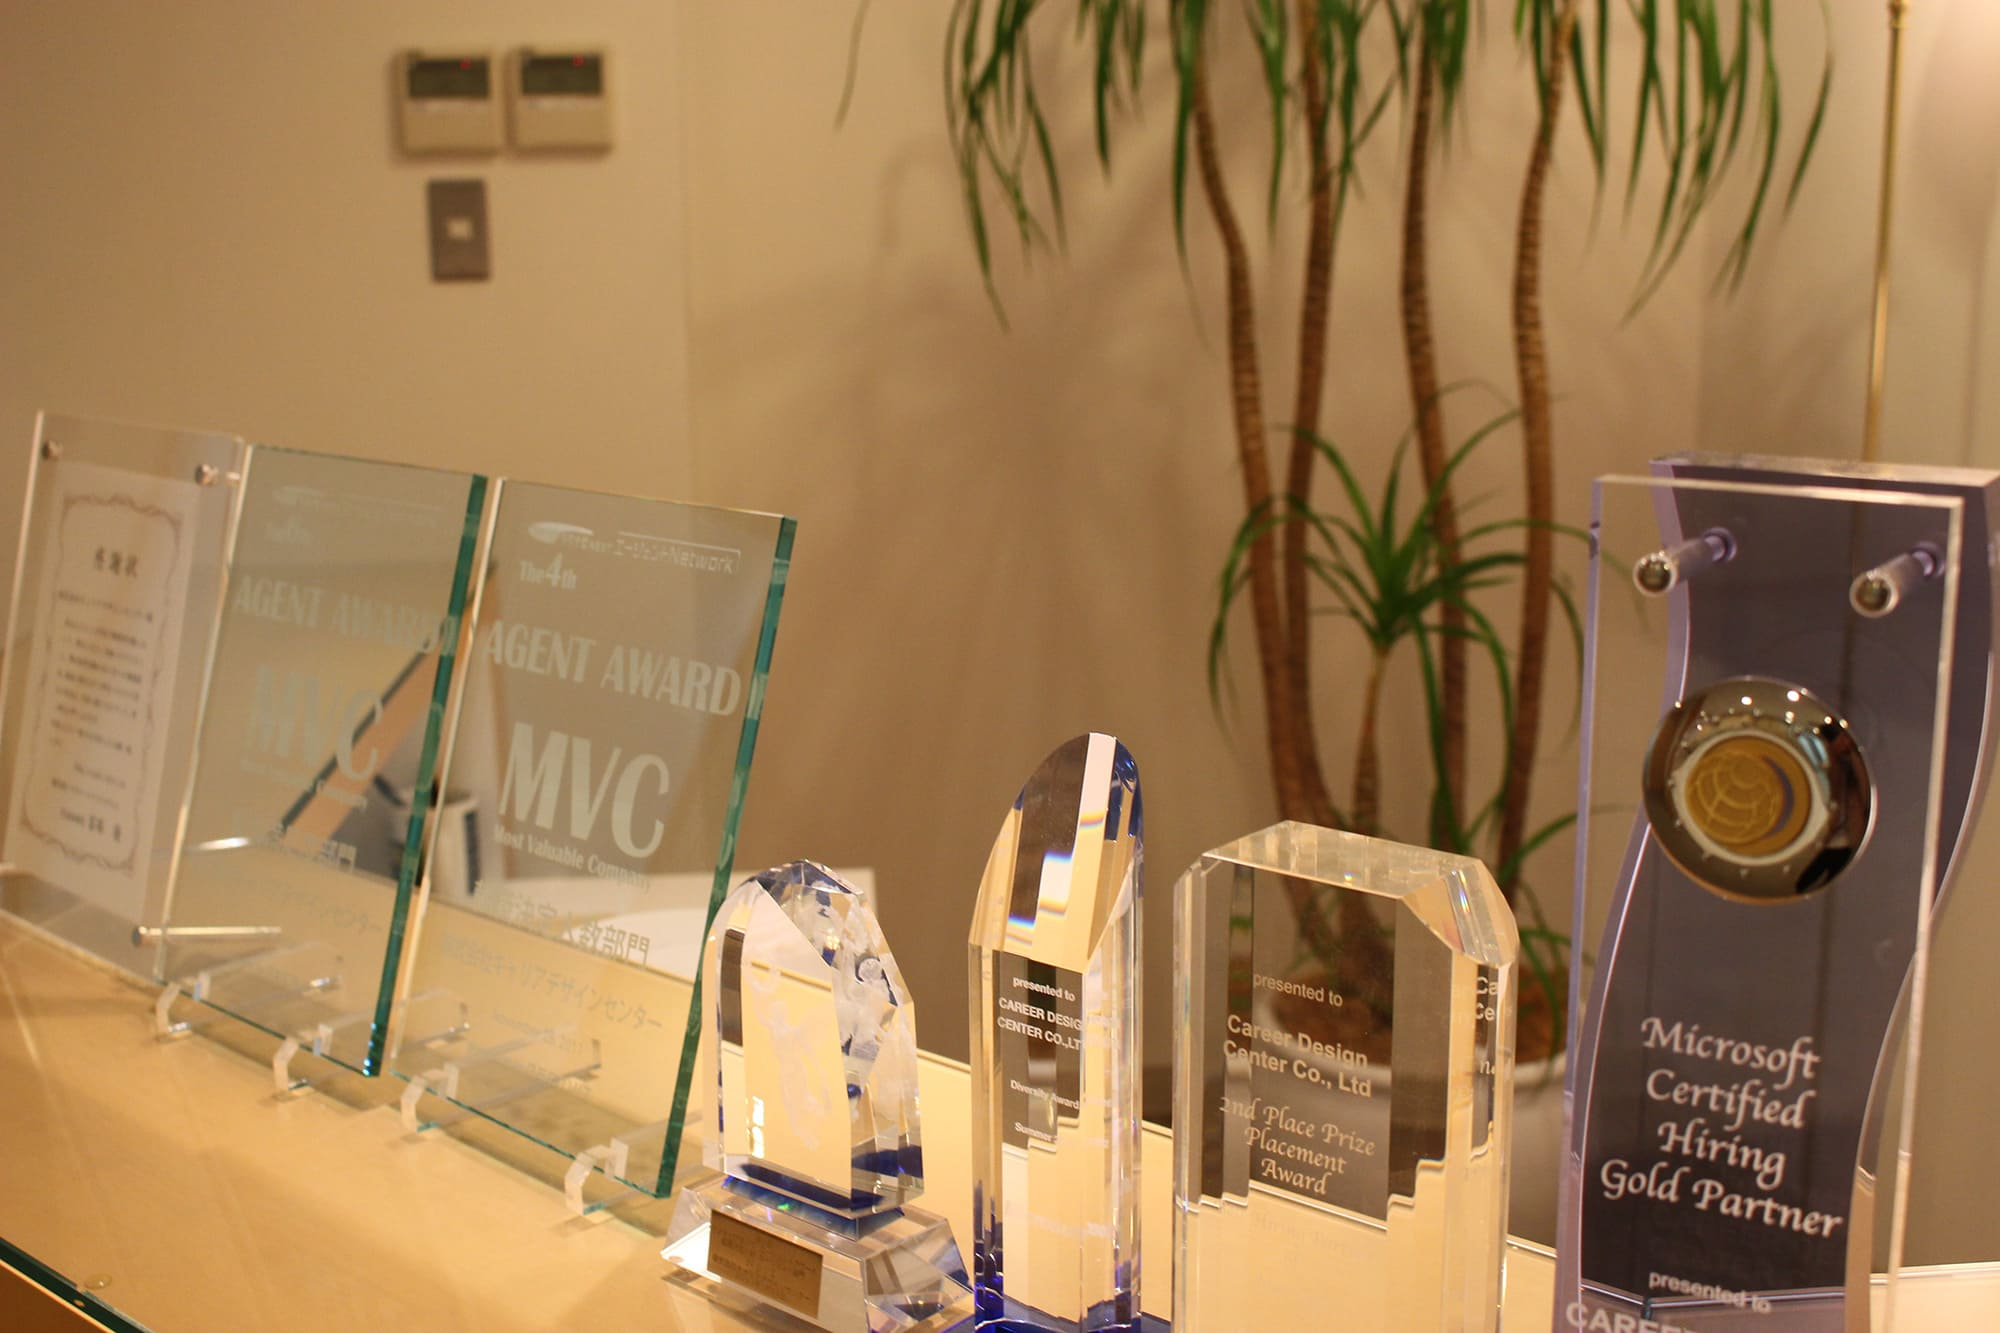
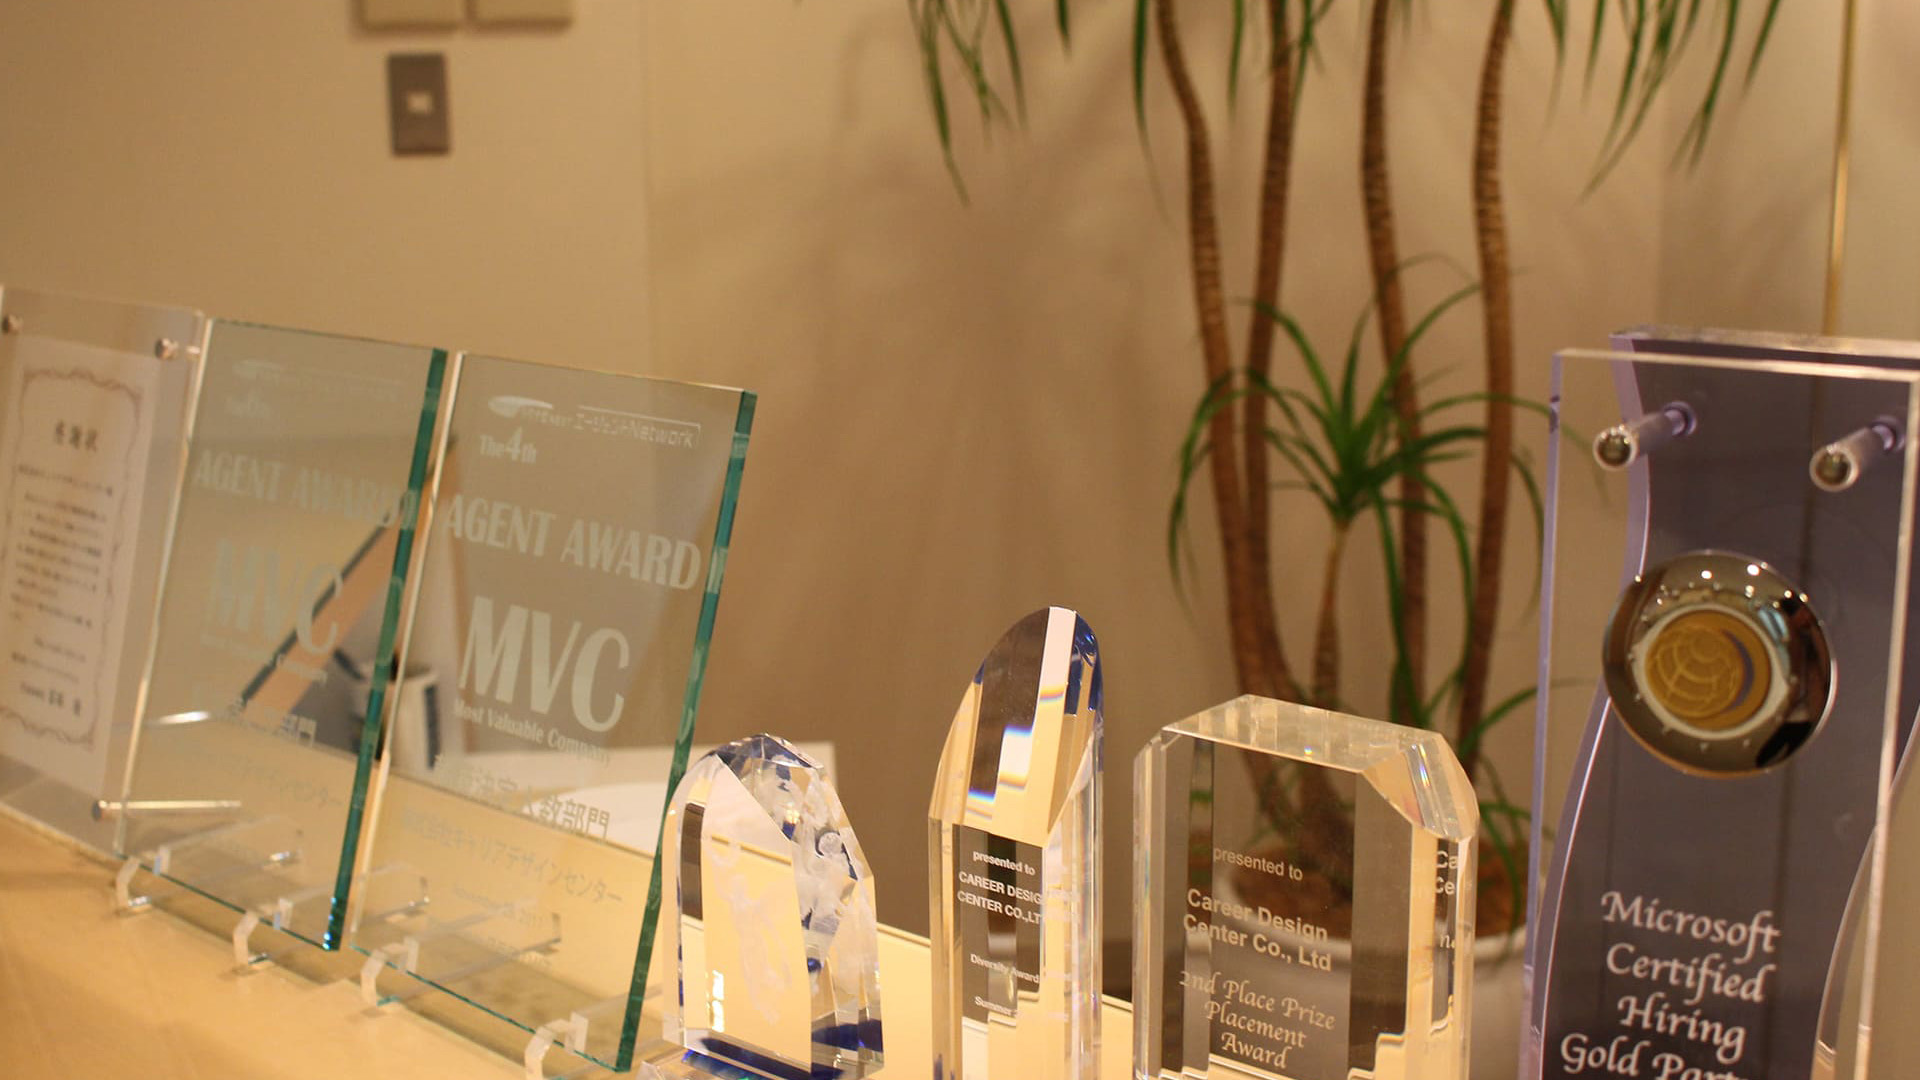
画像サイズ修正

diff --git a/pages/index.js b/pages/index.js
@@ -23,7 +23,7 @@ export default function Home(props) {
             alt={TOP[1].alt}
             className=" w-[100%] h-auto "
           />
-          <div className="skew-y-[-6deg] origin-top-left absolute w-[100%]  translate-y-[-100%]">
+          <div className="skew-y-[-6deg] origin-top-left absolute w-[100%] translate-y-[-100%]  md:translate-y-[-150%]">
             <p className="py-[20px] md:py-[40px] lg:py-[60px] text-center text-[28px] md:text-[45px] lg:text-[55px] font-bold bg-[#00A0E8] animate-slide-in-blurred-left">
               貫き続ける覚悟はあるか
             </p>
@@ -76,7 +76,7 @@ export default function Home(props) {
         <h1 className="text-[30px] text-center font-bold mt-[60px] mb-[30px] md:mb-[60px] mb:text-[34px] lg:my-[120px] lg:text-[40px]">
           {TOP[3].h1}
         </h1>
-        <Image src={TOP[3].image} width={2000} height={1333} alt={TOP[3].alt} />
+        <Image src={TOP[3].image} width={1920} height={1080} alt={TOP[3].alt} />
         <section>
           <h2 className="text-[20px] text-center text-black font-bold md:text-[24px] lg:text-[30px]">
             {TOP[3].h2}
@@ -281,7 +281,7 @@ export default function Home(props) {
             </p>
           </Link>
         </section>
-        <Image src={TOP[4].image} width={2000} height={1333} alt={TOP[4].alt} />
+        <Image src={TOP[4].image} width={1920} height={1080} alt={TOP[4].alt} />
         <section>
           <h2 className="text-[20px] lg:text-[30px] mb-[60px] text-center text-black font-bold  md:text-[24px]">
             {TOP[4].h2}
